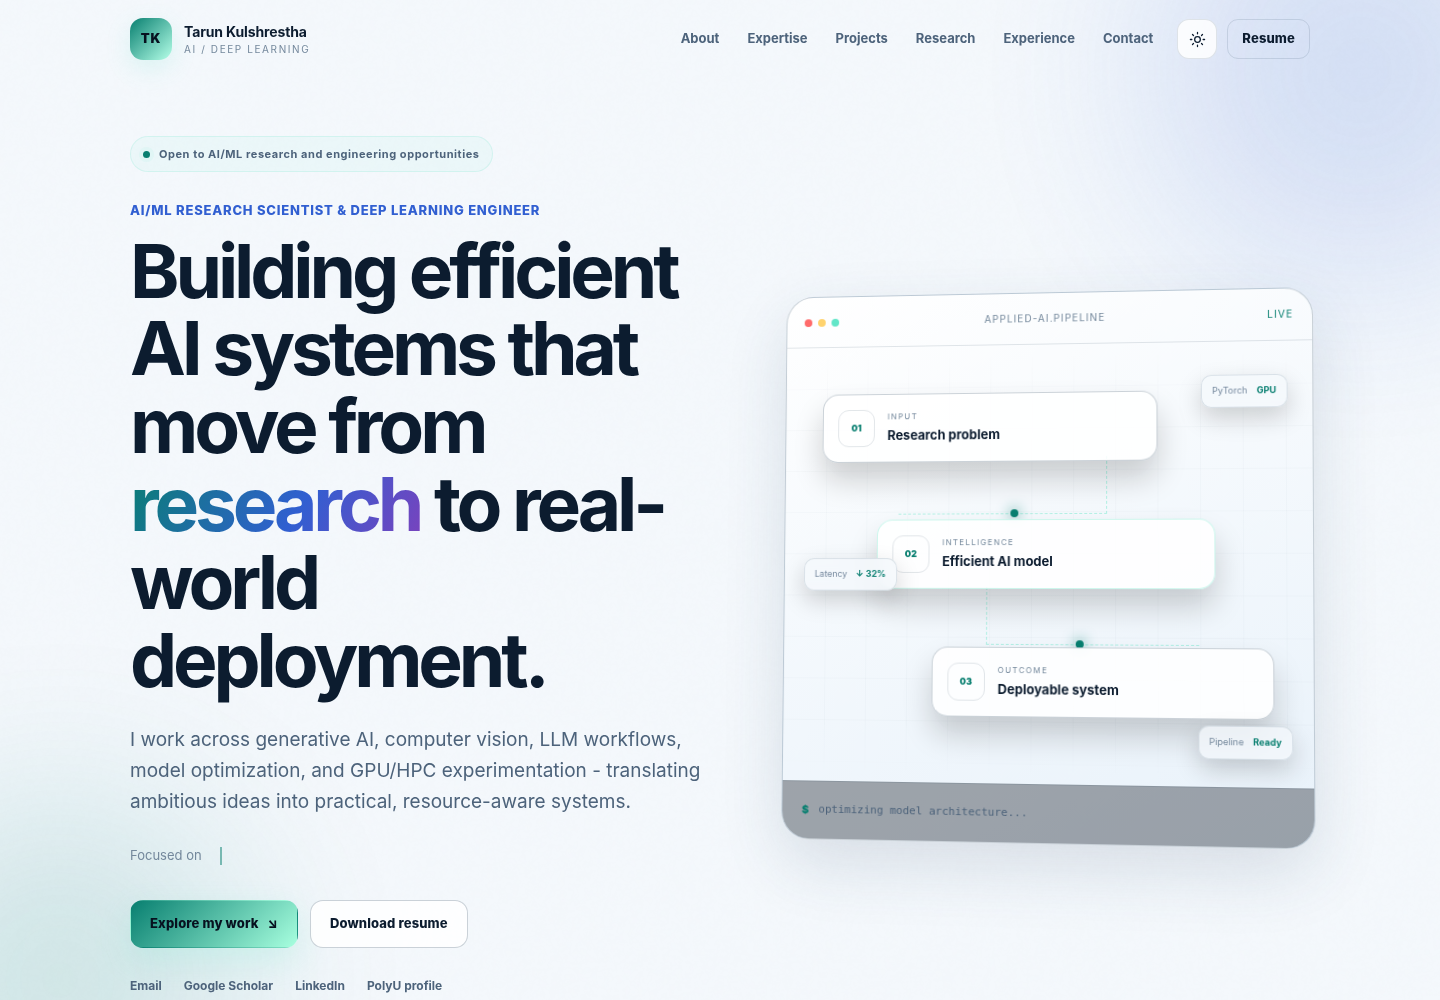
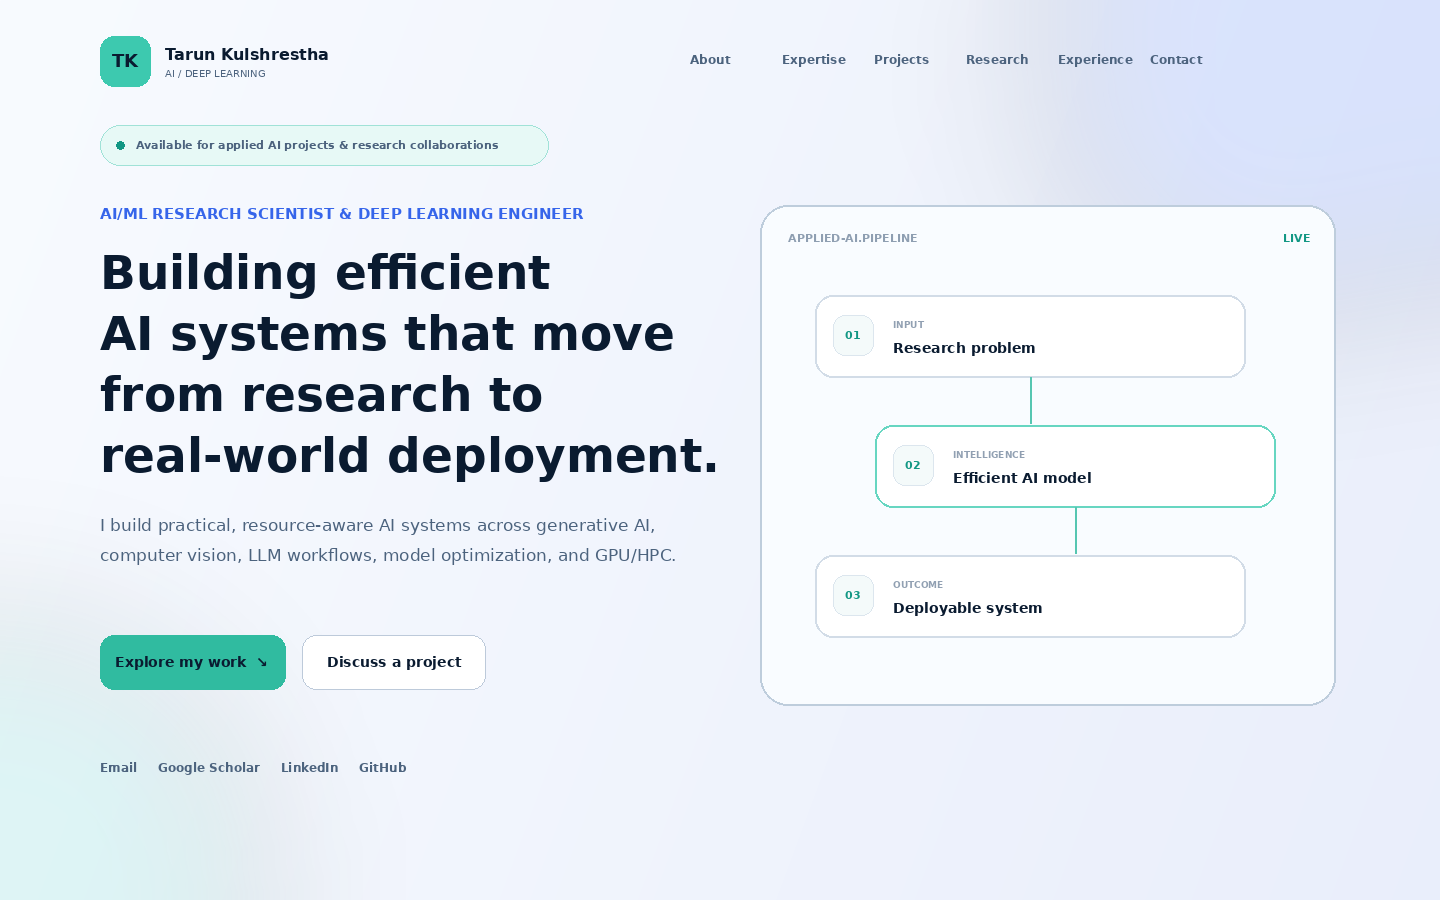
Remove confidential project and update collaboration focus

diff --git a/index.html b/index.html
@@ -87,7 +87,7 @@
   <main id="main-content">
     <section class="hero section container" aria-labelledby="hero-title">
       <div class="hero-copy reveal">
-        <div class="eyebrow"><span class="status-dot"></span> Open to AI/ML research and engineering opportunities</div>
+        <div class="eyebrow"><span class="status-dot"></span> Available for applied AI projects & research collaborations</div>
         <p class="hero-kicker">AI/ML Research Scientist & Deep Learning Engineer</p>
         <h1 id="hero-title">Building efficient AI systems that move from <span>research</span> to real-world deployment.</h1>
         <p class="hero-summary">
@@ -99,7 +99,7 @@
         </div>
         <div class="hero-actions">
           <a class="button button-primary" href="#projects">Explore my work <span aria-hidden="true">↘</span></a>
-          <a class="button button-secondary" href="assets/Tarun_Kulshrestha_Resume.pdf" download>Download resume</a>
+          <a class="button button-secondary" href="#contact">Discuss a project</a>
         </div>
         <div class="hero-links" aria-label="Professional links">
           <a href="mailto:tarun.kul@gmail.com">Email</a>
@@ -166,12 +166,12 @@
           <p>My current work explores privacy-aware and resource-conscious AI systems, including document intelligence, local language models, workflow automation, data-efficient generative models, and deployment on practical CPU/GPU environments.</p>
         </div>
         <aside class="about-card reveal delay-1">
-          <span class="card-label">CURRENT POSITIONING</span>
+          <span class="card-label">PROJECT & COLLABORATION FOCUS</span>
           <h3>Applied AI / Deep Learning</h3>
           <ul class="clean-list">
-            <li><span>Target roles</span><b>AI/ML Research Scientist, Applied Scientist, Deep Learning Engineer</b></li>
+            <li><span>Project focus</span><b>Applied AI systems, research translation, product prototyping</b></li>
             <li><span>Core domains</span><b>Generative AI, Computer Vision, LLMs, Efficient AI</b></li>
-            <li><span>Location</span><b>India · Open to global collaboration</b></li>
+            <li><span>Collaboration</span><b>India · Remote and global projects</b></li>
             <li><span>Working style</span><b>Research-to-production, hands-on, resource-aware</b></li>
           </ul>
         </aside>
@@ -235,7 +235,7 @@
           <span class="section-index">03 / FEATURED WORK</span>
           <h2 id="projects-title">Applied AI systems designed around real operational needs.</h2>
         </div>
-        <p>Selected prototypes and product directions. Detailed repositories and demos can be shared during a technical discussion.</p>
+        <p>Selected non-confidential prototypes and product directions. Detailed demos can be shared during a project discussion.</p>
       </div>
 
       <div class="projects-grid">
@@ -263,19 +263,7 @@
           </div>
         </article>
 
-        <article class="project-card reveal delay-1">
-          <div class="project-content">
-            <div class="project-meta"><span class="project-status prototype">PROTOTYPE</span><span>Industrial Training AI</span></div>
-            <h3>MineSafe Training Intelligence</h3>
-            <p>An AI-assisted assessment and analytics layer for worker-training programs, combining question generation, competency evaluation, attendance, and report cards.</p>
-            <div class="mini-dashboard" aria-hidden="true">
-              <div><span>Safety rules</span><b>86%</b></div>
-              <div><span>Hazard ID</span><b>78%</b></div>
-              <div><span>Attendance</span><b>13/15</b></div>
-            </div>
-            <div class="tag-list"><span>Assessment AI</span><span>Analytics</span><span>Reporting</span></div>
-          </div>
-        </article>
+
 
         <article class="project-card reveal delay-2">
           <div class="project-content">
@@ -410,17 +398,17 @@
       <div class="contact-panel reveal">
         <div class="contact-copy">
           <span class="section-index">07 / CONTACT</span>
-          <h2 id="contact-title">Let’s discuss an AI problem worth solving.</h2>
-          <p>I am interested in applied research, deep-learning engineering, generative AI, computer vision, document intelligence, and research-to-product collaboration.</p>
+          <h2 id="contact-title">Have an AI project or research challenge?</h2>
+          <p>I collaborate on applied AI projects involving deep learning, generative AI, computer vision, document intelligence, and research-to-product implementation.</p>
           <div class="contact-details">
             <a href="mailto:tarun.kul@gmail.com"><span>Email</span><strong>tarun.kul@gmail.com</strong></a>
-            <div><span>Location</span><strong>India · Open to global opportunities</strong></div>
+            <div><span>Collaboration</span><strong>India · Remote and global projects</strong></div>
           </div>
         </div>
         <form class="contact-form" id="contactForm">
           <label>Name<input type="text" name="name" autocomplete="name" required placeholder="Your name"></label>
           <label>Email<input type="email" name="email" autocomplete="email" required placeholder="you@example.com"></label>
-          <label>What would you like to discuss?<textarea name="message" rows="5" required placeholder="Role, research collaboration, product problem, or technical project..."></textarea></label>
+          <label>What would you like to discuss?<textarea name="message" rows="5" required placeholder="Project, research collaboration, product problem, or technical requirement..."></textarea></label>
           <button class="button button-primary" type="submit">Compose email <span aria-hidden="true">↗</span></button>
           <p class="form-note">This static form opens your default email app; no form data is stored by this website.</p>
         </form>

diff --git a/styles.css b/styles.css
@@ -174,10 +174,10 @@ html[data-theme="light"] .visual-shell { background: linear-gradient(160deg, rgb
 .stack-row { display: flex; flex-wrap: wrap; justify-content: center; gap: 8px; margin-top: 32px; padding: 18px; border: 1px solid var(--line); border-radius: 18px; background: rgba(90, 138, 184, .035); }
 .stack-row span { color: var(--muted); font-size: 11px; font-weight: 700; padding: 6px 10px; }
 
-.projects-grid { display: grid; grid-template-columns: 1.12fr .88fr; gap: 18px; }
+.projects-grid { display: grid; grid-template-columns: repeat(2, minmax(0, 1fr)); gap: 18px; align-items: stretch; }
 .project-card { min-height: 370px; border: 1px solid var(--line); background: var(--surface); border-radius: var(--radius); overflow: hidden; transition: transform .25s ease, border-color .25s ease; }
 .project-card:hover { transform: translateY(-5px); border-color: rgba(122, 167, 255, .32); }
-.project-featured { grid-row: span 2; display: grid; grid-template-rows: 1fr auto; }
+.project-featured { display: grid; grid-template-rows: minmax(210px, .8fr) auto; }
 .project-content { padding: 30px; }
 .project-meta { display: flex; justify-content: space-between; align-items: center; gap: 12px; color: var(--muted-2); font-size: 9px; letter-spacing: .12em; text-transform: uppercase; font-weight: 800; }
 .project-status { color: var(--accent); }.project-status.prototype { color: var(--accent-2); }.project-status.concept { color: var(--accent-3); }
@@ -275,7 +275,7 @@ html[data-theme="light"] .project-visual { background: radial-gradient(circle at
   .research-feature { position: static; }
   .expertise-grid, .workshop-grid { grid-template-columns: repeat(2, 1fr); }
   .split-heading { grid-template-columns: 1fr; gap: 10px; }
-  .projects-grid { grid-template-columns: 1fr; }.project-featured { grid-row: auto; }
+  .projects-grid { grid-template-columns: 1fr; }
   .footer-grid { grid-template-columns: 1fr; text-align: center; }.footer-brand { justify-content: center; }.footer-links, .footer-meta { justify-content: center; }
 }
 

diff --git a/script.js b/script.js
@@ -129,7 +129,7 @@
     const name = String(form.get('name') || '').trim();
     const email = String(form.get('email') || '').trim();
     const message = String(form.get('message') || '').trim();
-    const subject = encodeURIComponent(`Portfolio enquiry from ${name || 'a visitor'}`);
+    const subject = encodeURIComponent(`AI project enquiry from ${name || 'a visitor'}`);
     const body = encodeURIComponent(`Hello Dr. Tarun,\n\n${message}\n\nRegards,\n${name}\n${email}`);
     window.location.href = `mailto:tarun.kul@gmail.com?subject=${subject}&body=${body}`;
   });

diff --git a/service-worker.js b/service-worker.js
@@ -1,4 +1,4 @@
-const CACHE = 'tarun-portfolio-v2';
+const CACHE = 'tarun-portfolio-v3';
 const ASSETS = ['./', './index.html', './styles.css', './script.js', './assets/favicon.svg', './assets/og-cover.svg'];
 self.addEventListener('install', event => event.waitUntil(caches.open(CACHE).then(cache => cache.addAll(ASSETS))));
 self.addEventListener('activate', event => event.waitUntil(caches.keys().then(keys => Promise.all(keys.filter(key => key !== CACHE).map(key => caches.delete(key))))));

diff --git a/README.md b/README.md
@@ -2,7 +2,7 @@
 
 ![Portfolio preview](assets/portfolio-preview.png)
 
-A modern, responsive personal portfolio for AI/ML research scientist, deep-learning engineer, and applied AI roles. It is ready for direct deployment on GitHub Pages without npm or a build process.
+A modern, responsive personal portfolio for applied AI projects, research collaboration, and product-focused technical work. It is ready for direct deployment on GitHub Pages without npm or a build process.
 
 ## Portfolio positioning
 
